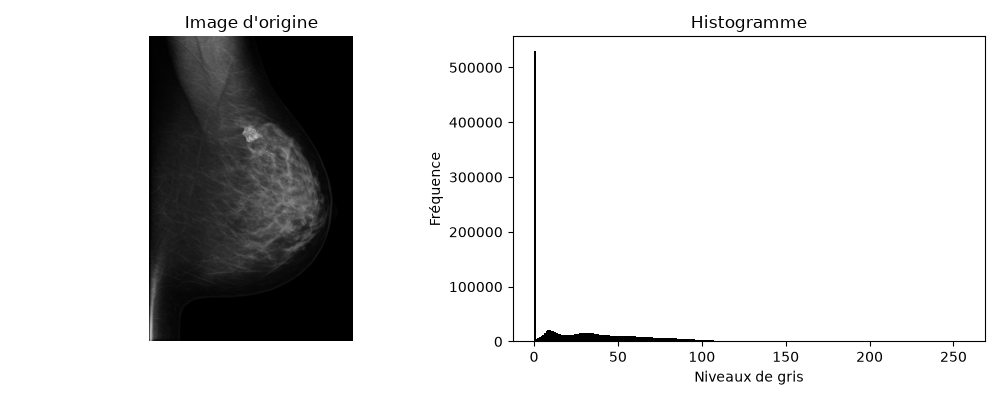
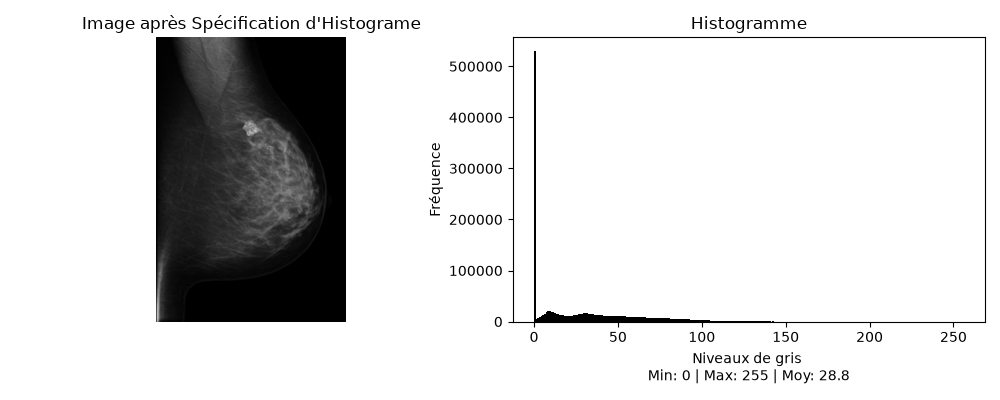
partie 2

diff --git a/tp_mammographie.py b/tp_mammographie.py
@@ -22,7 +22,7 @@ def show_image(img, title="Image"):
     plt.axis("off")
     plt.show()
 
-def analyze_histogram(img):
+def analyze_histogram(img, title = "Analyse de l'image"):
     """Affiche les statistiques basiques et l'histogramme de l'image."""
     print(f"--- Analyse Statistiques ---")
     print(f"Min: {img.min()}, Max: {img.max()}, Moyenne: {img.mean():.2f}")
@@ -30,26 +30,82 @@ def analyze_histogram(img):
     plt.figure(figsize=(10, 4))
     plt.subplot(1, 2, 1)
     plt.imshow(img, cmap="gray")
-    plt.title("Image d'origine")
+    plt.title(title)
     plt.axis("off")
 
     plt.subplot(1, 2, 2)
     plt.hist(img.ravel(), bins=256, range=[0, 256], color="black")
     plt.title("Histogramme")
-    plt.xlabel("Niveaux de gris")
+    plt.xlabel(f"Niveaux de gris \nMin: {img.min()} | Max: {img.max()} | Moy: {img.mean():.1f}")
     plt.ylabel("Fréquence")
     plt.tight_layout()
     plt.savefig(os.path.join(OUTPUT_DIR, "partie1_histogramme.png"))
     plt.show()
 
 
+#interpretation:
+"""
+Zones de l'image :Fond (air) : 
+    Noir (valeur proche de $0$).   
+    Tissu mammaire sain : Nuances de gris moyen.   
+    Anomalies (masses, microcalcifications) : Zones très claires ou blanches (valeurs proches de $255$).   
+Lecture de l'histogramme :
+    Histogramme étroit (resserré) : Image terne et peu contrastée. Les anomalies se confondent avec le tissu sain.   
+    Histogramme étalé (large) : Bon contraste. Les détails et la structure du sein se distinguent nettement.
+"""
+
 
 # partie 2: segmentation de l'image
+def dynamic_expansion(img, new_min=0, new_max=255):
+    """Expansion de dynamique (étirement linéaire de l'histogramme)."""
+    i_min, i_max = float(img.min()), float(img.max())
+    if i_max == i_min:
+        return img.copy()
+    expanded = (img - i_min) * ((new_max - new_min) / (i_max - i_min)) + new_min
+    return np.clip(expanded, new_min, new_max).astype(np.uint8)
+
+def histogram_equalization(img):
+    """Égalisation globale basée sur la fonction de répartition cumulative (CDF)."""
+    hist, bins = np.histogram(img.flatten(), 256, [0, 256])
+    cdf = hist.cumsum()
+    cdf_m = np.ma.masked_equal(cdf, 0)
+    cdf_m = (cdf_m - cdf_m.min()) * 255 / (cdf_m.max() - cdf_m.min())
+    cdf = np.ma.filled(cdf_m, 0).astype("uint8")
+    return cdf[img]
+
+def histogram_specification(img, reference):
+    """Mise en correspondance d'histogramme (Spécification)."""
+    hist_src, _ = np.histogram(img.flatten(), 256, [0, 256])
+    hist_ref, _ = np.histogram(reference.flatten(), 256, [0, 256])
+
+    cdf_src = hist_src.cumsum() / hist_src.sum()
+    cdf_ref = hist_ref.cumsum() / hist_ref.sum()
+
+    lut = np.zeros(256, dtype=np.uint8)
+    for g in range(256):
+        diff = np.abs(cdf_src[g] - cdf_ref)
+        lut[g] = np.argmin(diff)
+
+    return lut[img]
+
+#interpretation
+"""
+Expansion de dynamique : 
+Étire la plage des niveaux de gris de [min, max] vers [0, 255].   
+Résultat : Les zones sombres deviennent légèrement plus claires et l'image gagne un peu de lisibilité sans déformer la répartition originale
+
+Égalisation d'histogramme :
+Redistribue les niveaux de gris pour rendre l'histogramme uniforme.   
+Résultat : Révèle les détails très sombres du tissu, mais peut surexposer certaines zones claires et amplifier le bruit.
+
+Spécification d'histogramme :
+Aligne la distribution des contrastes de l'image sur celle d'une image de référence[cite: 1].
+Résultat et qu'il Harmonise le contraste entre plusieurs mammographies d'appareils différents
+
+"""
 
 
-
-
-
+#partie 3: reduction du bruit
 
 
 
@@ -57,5 +113,14 @@ def analyze_histogram(img):
 
 
 img = load_image("mammogram.png")
-show_image(img, title="Image Mammographie")
 analyze_histogram(img)
+
+
+dynamic_img = dynamic_expansion(img)
+analyze_histogram(dynamic_img, title="Image après Expansion de Dynamique")
+equalized_img = histogram_equalization(img)
+analyze_histogram(equalized_img, title="Image après Égalisation d'Histograme")
+specified_img = histogram_specification(img, dynamic_img)
+analyze_histogram(specified_img, title="Image après Spécification d'Histograme")
+
+
